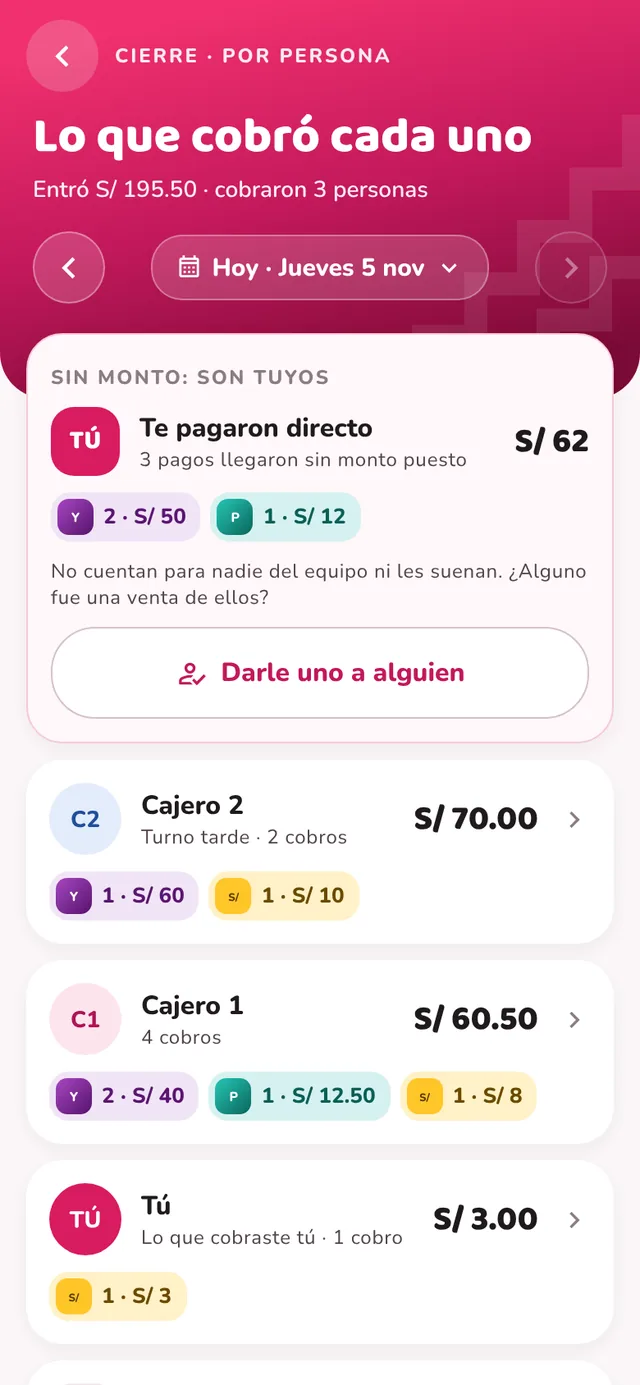
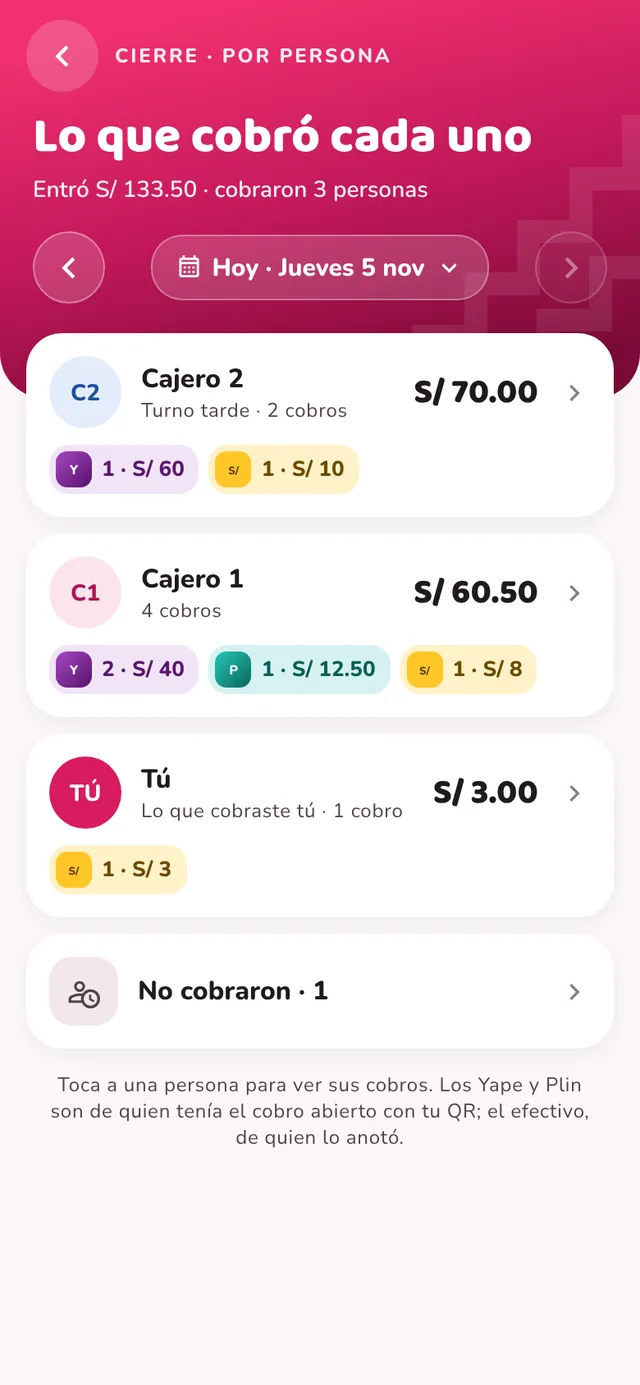
Página de venta: ¿Te pasa? con dibujos, fondos alternados y foto de lo que cobró cada uno
Claude-Session: https://claude.ai/code/session_01P6FnF1odxQD4vqj2HjLypa

diff --git a/index.html b/index.html
@@ -21,7 +21,7 @@
 <link rel="preconnect" href="https://fonts.googleapis.com">
 <link rel="preconnect" href="https://fonts.gstatic.com" crossorigin>
 <link href="https://fonts.googleapis.com/css2?family=Baloo+2:wght@700;800&amp;family=Nunito:wght@400;600;700;800&amp;display=swap" rel="stylesheet">
-<link rel="stylesheet" href="venta.css?v=5b79110a58">
+<link rel="stylesheet" href="venta.css?v=7e7b99b2e3">
 <script type="application/ld+json">{"@context":"https://schema.org","@type":"FAQPage","mainEntity":[{"@type":"Question","name":"¿Necesito una cuenta especial de Yape o Plin?","acceptedAnswer":{"@type":"Answer","text":"No. Yupana lee los avisos que ya te llegan al celular cuando te yapean o te plinean. Sigues cobrando como siempre."}},{"@type":"Question","name":"¿Yupana ve mi dinero o mis claves?","acceptedAnswer":{"@type":"Answer","text":"No. Solo lee los avisos de pagos de Yape y Plin. No entra a tu banco, no ve tus claves y no mueve tu plata."}},{"@type":"Question","name":"¿En qué celulares funciona?","acceptedAnswer":{"@type":"Answer","text":"En celulares Android. En algunas marcas, como Xiaomi, Oppo o Vivo, hay que prender dos permisos más: Yupana te muestra cómo, paso a paso."}},{"@type":"Question","name":"¿Qué pasa cuando terminan los 14 días?","acceptedAnswer":{"@type":"Answer","text":"Sigues gratis con Básico: el lector, tu caja y el cierre en tu celular. No se borra nada y no se cobra nada solo. Si quieres seguir con tu equipo, eliges un plan."}},{"@type":"Question","name":"¿Mi equipo necesita correo o Google?","acceptedAnswer":{"@type":"Answer","text":"No. Tú agregas a cada persona y le das un PIN de 4 cifras. Entra con su PIN en el celular que tú conectas. Cuando ya no trabaja contigo, la das de baja."}},{"@type":"Question","name":"¿Cómo pago mi plan?","acceptedAnswer":{"@type":"Answer","text":"Aquí, en la página de Yupana: con Yape, con tu código de aprobación, o con tarjeta. Con Yape pagas cada vez que quieres seguir; con tarjeta se cobra solo y lo cancelas cuando quieras."}},{"@type":"Question","name":"¿Puedo dejar de pagar cuando quiera?","acceptedAnswer":{"@type":"Answer","text":"Sí. No hay contratos. Si dejas de pagar, pasas a Básico y no se borra nada."}},{"@type":"Question","name":"¿Yupana es de Yape o de Plin?","acceptedAnswer":{"@type":"Answer","text":"No. Yupana es una app independiente, hecha en Perú. No está relacionada con Yape, con Plin ni con ningún banco."}}]}</script>
 </head>
 <body>
@@ -80,22 +80,38 @@
     <h2 class="center">¿Te pasa?</h2>
     <div class="pain-grid">
       <article class="pain">
-        <span class="ico"><svg viewBox="0 0 24 24" aria-hidden="true"><rect x="6" y="2.5" width="12" height="19" rx="2.5"/><path d="M10 18.5h4"/></svg></span>
-        <h3>Al cerrar, no sabes cuánto entró por Yape y Plin</h3>
-        <p>Y revisas el celular aviso por aviso.</p>
-        <p class="fix"><b>Con Yupana:</b> cada pago se anota solo, con el nombre y la hora.</p>
+        <div class="pain-art art-1" aria-hidden="true">
+          <div class="pn pn-1"><span class="pn-b pn-y">Y</span><span>Yape S/ 25.00<small>María Q. · 8:10 p. m.</small></span></div>
+          <div class="pn pn-2"><span class="pn-b pn-p">P</span><span>Plin S/ 18.00<small>Carla M. · 7:52 p. m.</small></span></div>
+          <div class="pn pn-3"><span class="pn-b pn-y">Y</span><span>Yape S/ 12.50<small>Luis R. · 7:40 p. m.</small></span></div>
+          <span class="pn-q">?</span>
+        </div>
+        <div class="pain-body">
+          <h3>Al cerrar, no sabes cuánto entró por Yape y Plin</h3>
+          <p>Revisas el celular aviso por aviso.</p>
+          <p class="fix"><i aria-hidden="true">✓</i><span>Con Yupana, cada pago se anota solo, con el nombre y la hora.</span></p>
+        </div>
       </article>
       <article class="pain">
-        <span class="ico"><svg viewBox="0 0 24 24" aria-hidden="true"><rect x="4" y="5" width="16" height="14" rx="2.5"/><path d="M4 9h16M8 15h3"/></svg></span>
-        <h3>Te enseñan una captura y no sabes si el pago llegó</h3>
-        <p>Y si no llegó, lo descubres al cerrar.</p>
-        <p class="fix"><b>Con Yupana:</b> solo cuenta lo que llegó de verdad a tu celular.</p>
+        <div class="pain-art art-2" aria-hidden="true">
+          <div class="cap"><div class="cap-ok">✓</div><b>¡Yapeaste!</b><strong>S/ 50.00</strong><small>Captura</small></div>
+          <span class="stamp">¿LLEGÓ?</span>
+        </div>
+        <div class="pain-body">
+          <h3>Te enseñan una captura y no sabes si el pago llegó</h3>
+          <p>Si no llegó, lo descubres al cerrar.</p>
+          <p class="fix"><i aria-hidden="true">✓</i><span>Con Yupana, solo cuenta lo que llegó de verdad a tu celular.</span></p>
+        </div>
       </article>
       <article class="pain">
-        <span class="ico"><svg viewBox="0 0 24 24" aria-hidden="true"><circle cx="9" cy="8" r="3.2"/><path d="M3.5 19c.8-3.4 3-5 5.5-5s4.7 1.6 5.5 5"/><circle cx="17" cy="9" r="2.5"/><path d="M15.5 14.2c2.4 0 4.3 1.5 5 4.8"/></svg></span>
-        <h3>La caja no cuadra y no sabes por qué</h3>
-        <p>Ni cuánto cobró cada persona de tu equipo.</p>
-        <p class="fix"><b>Con Yupana:</b> sabes si falta o sobra, y quién cobró cada pago.</p>
+        <div class="pain-art art-3" aria-hidden="true">
+          <div class="rec"><div><span>Debería haber</span><span>S/ 141.50</span></div><div><span>Contaste</span><span>S/ 131.50</span></div><div class="rec-d"><span>¿Quién cobró?</span><span>?</span></div><div class="rec-f"><span>Faltan</span><span>S/ 10.00</span></div></div>
+        </div>
+        <div class="pain-body">
+          <h3>La caja no cuadra y no sabes por qué</h3>
+          <p>Ni cuánto cobró cada persona de tu equipo.</p>
+          <p class="fix"><i aria-hidden="true">✓</i><span>Con Yupana, sabes si falta o sobra, y quién cobró cada pago.</span></p>
+        </div>
       </article>
     </div>
   </div>
@@ -241,7 +257,7 @@
       <article class="t-card">
         <h3>Lo que cobró cada uno <span class="tag tag-winay">Desde Wiñay</span></h3>
         <p>Cada Yape, Plin y efectivo, con el nombre de quien lo cobró.</p>
-        <div class="peek"><div class="phone sm"><img src="img/por-persona.webp" alt="Lo que cobró cada uno: cada persona con sus cobros del día" width="640" height="1385" loading="lazy"></div></div>
+        <div class="peek"><div class="phone sm"><img src="img/por-persona.webp" alt="Lo que cobró cada uno: Cajero 2 S/ 70.00, Cajero 1 S/ 60.50 y tú S/ 3.00, con sus Yape, Plin y efectivo" width="640" height="1385" loading="lazy"></div></div>
       </article>
       <article class="t-card">
         <h3>Turnos y cierre de turno <span class="tag tag-winay">Desde Wiñay</span></h3>
@@ -451,6 +467,6 @@
   <a class="btn btn-main btn-sm" href="#descargar">Prueba gratis</a>
 </div>
 
-<script type="module" src="venta.js?v=5b79110a58"></script>
+<script type="module" src="venta.js?v=7e7b99b2e3"></script>
 </body>
 </html>

diff --git a/venta.css b/venta.css
@@ -111,11 +111,6 @@ button.btn { background: transparent; cursor: pointer; }
 
 /* ¿Te pasa? */
 .pains { padding: 56px 0 8px; }
-.pain-grid { display: grid; gap: 14px; margin-top: 26px; }
-.pain { background: var(--card); border: 1px solid var(--line); border-radius: 22px; padding: 20px; display: grid; grid-template-columns: 48px 1fr; column-gap: 14px; row-gap: 4px; }
-.pain .ico { grid-row: span 2; }
-.pain h3 { font-size: 19px; }
-.pain p { color: var(--muted); font-size: 16px; }
 .ico { width: 48px; height: 48px; border-radius: 15px; background: var(--soft); display: grid; place-items: center; }
 .ico svg { width: 26px; height: 26px; fill: none; stroke: var(--brand); stroke-width: 2; stroke-linecap: round; stroke-linejoin: round; }
 
@@ -301,10 +296,6 @@ button.btn { background: transparent; cursor: pointer; }
 .more-grid p { color: var(--muted); font-size: 15px; margin: 2px 0 8px; }
 
 
-/* El problema y su solución */
-.pain .fix { grid-column: 2; margin-top: 8px; color: var(--green); font-weight: 700; font-size: 15px; background: var(--green-bg); border-radius: 12px; padding: 8px 10px; }
-.pain .fix b { font-weight: 800; }
-
 /* Escuchar */
 .play { cursor: pointer; }
 .mini, button.bubble { font-family: inherit; }
@@ -382,10 +373,6 @@ button.bubble { text-align: left; cursor: pointer; color: var(--ink); font-famil
   @keyframes llega-d { from { opacity: 0; transform: translateY(-26px) rotate(-3deg); } to { opacity: 1; transform: rotate(-3deg); } }
 
   .pains { padding: 88px 0 16px; }
-  .pain-grid { grid-template-columns: repeat(3, 1fr); gap: 20px; margin-top: 36px; }
-  .pain { display: block; padding: 26px; }
-  .pain h3 { font-size: 22px; margin-top: 18px; }
-  .pain p { margin-top: 8px; font-size: 17px; }
 
   .how { padding: 88px 0 40px; }
   .step { flex-direction: row; align-items: center; gap: 80px; margin-top: 80px; }
@@ -461,4 +448,51 @@ button.bubble { text-align: left; cursor: pointer; color: var(--ink); font-famil
   .foot-links { justify-content: flex-end; }
   .foot-note { grid-column: 1 / -1; }
   .bar { display: none; }
+}
+
+/* ¿Te pasa? (opción C, 6 nov): cada problema con su dibujo y la solución en verde */
+.pain-grid { display: grid; gap: 16px; margin-top: 28px; }
+.pain { background: #fff; border: 1px solid var(--line); border-radius: 26px; overflow: hidden; box-shadow: 0 18px 40px -28px rgba(70, 10, 35, 0.45); display: flex; flex-direction: column; }
+.pain-art { height: 176px; position: relative; display: grid; place-items: center; overflow: hidden; }
+.art-1 { background: linear-gradient(160deg, #fff1f5, #fde0ea); }
+.art-2 { background: linear-gradient(160deg, #f6effb, #eadcf5); }
+.art-3 { background: linear-gradient(160deg, #fff7e6, #ffe9bd); }
+.pain-body { padding: 20px 22px 22px; display: flex; flex-direction: column; gap: 8px; flex: 1; }
+.pain-body h3 { font-size: 20px; }
+.pain-body p { color: var(--muted); font-size: 15.5px; }
+.pain-body .fix { margin-top: auto; display: flex; gap: 10px; align-items: flex-start; background: var(--green-bg); border-radius: 14px; padding: 10px 12px; color: #163f24; font-weight: 700; font-size: 15px; }
+.fix i { flex: 0 0 22px; height: 22px; border-radius: 50%; background: var(--green); color: #fff; display: grid; place-items: center; font-style: normal; font-size: 12px; margin-top: 1px; }
+.pn { position: absolute; left: 50%; width: 230px; display: flex; align-items: center; gap: 10px; background: #fff; border-radius: 14px; padding: 9px 12px; box-shadow: 0 8px 20px -10px rgba(70, 10, 35, 0.45); font-size: 13px; font-weight: 800; }
+.pn small { display: block; font-weight: 600; color: var(--muted); font-size: 11.5px; }
+.pn-b { flex: 0 0 28px; height: 28px; border-radius: 8px; color: #fff; display: grid; place-items: center; font-size: 13px; }
+.pn-y { background: linear-gradient(135deg, #9b3fb5, #5a1670); }
+.pn-p { background: linear-gradient(135deg, #19b3a2, #0e7468); }
+.pn-1 { top: 16px; transform: translateX(-58%) rotate(-3deg); }
+.pn-2 { top: 68px; transform: translateX(-46%) rotate(2deg); }
+.pn-3 { top: 120px; transform: translateX(-54%) rotate(-1.5deg); }
+.pn-q { position: absolute; right: 16px; top: 12px; width: 46px; height: 46px; border-radius: 50%; background: #b3261e; color: #fff; font: 800 26px 'Baloo 2', sans-serif; display: grid; place-items: center; box-shadow: 0 8px 18px -8px rgba(179, 38, 30, 0.8); }
+.cap { width: 150px; background: #fff; border-radius: 16px; padding: 12px; box-shadow: 0 12px 28px -12px rgba(60, 10, 90, 0.5); transform: rotate(-5deg); text-align: center; }
+.cap-ok { width: 34px; height: 34px; border-radius: 50%; margin: 2px auto 6px; background: linear-gradient(135deg, #9b3fb5, #5a1670); display: grid; place-items: center; color: #fff; font-weight: 800; }
+.cap b { display: block; font-size: 13px; font-weight: 800; }
+.cap strong { display: block; font: 800 26px 'Baloo 2', sans-serif; line-height: 1.1; }
+.cap small { font-size: 11px; color: var(--muted); font-weight: 700; }
+.stamp { position: absolute; right: 18px; top: 20px; transform: rotate(-12deg); border: 3px solid #b3261e; color: #b3261e; font: 800 18px 'Baloo 2', sans-serif; padding: 2px 10px; border-radius: 10px; background: rgba(255, 255, 255, 0.75); }
+.rec { width: 210px; background: #fff; border-radius: 16px; padding: 12px 14px; box-shadow: 0 12px 28px -12px rgba(120, 70, 0, 0.45); font-size: 13px; font-weight: 700; }
+.rec div { display: flex; justify-content: space-between; padding: 3px 0; }
+.rec .rec-d { border-top: 1.5px dashed #e5d5b0; margin-top: 4px; padding-top: 7px; }
+.rec .rec-f { margin-top: 6px; background: #fde2df; color: #b3261e; border-radius: 10px; padding: 6px 10px; font-weight: 800; }
+
+/* Fondos alternados (6 nov, pedido del usuario: que se note dónde termina cada parte): blanco y rosado claro */
+.pains, .voice, .more, .plans { background: #fff; }
+.how, .save, .trust, .faq { background: var(--bg); }
+.pains, .how, .voice, .save, .more, .trust, .plans, .faq { margin-top: 0; padding: 56px 0 60px; }
+.team { margin-top: 0; }
+.voice .voices li, .more-grid article, .have { background: var(--bg); }
+.plan { box-shadow: 0 18px 40px -30px rgba(70, 10, 35, 0.4); }
+.pick-opts button { background: var(--bg); }
+@media (min-width: 900px) {
+  .pain-grid { grid-template-columns: repeat(3, 1fr); gap: 22px; margin-top: 40px; }
+  .pain-art { height: 190px; }
+  .pain-body h3 { font-size: 22px; }
+  .pains, .how, .voice, .save, .more, .trust, .plans, .faq { padding: 96px 0 100px; }
 }
